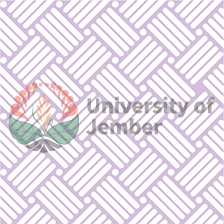
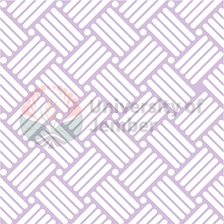
Update patern visibility

Changed region(s): [[0.0312, 0.3438, 0.9688, 0.6875]]

diff --git a/css/idj.css b/css/idj.css
@@ -73,7 +73,7 @@ body{
   var(--darkblue) 170px,
   rgba(255, 255, 255, 0.1) 170px,
   rgba(255, 255, 255, 0.1) 100%),
-  url("https://raw.githubusercontent.com/darkun7/ojs-theme/main/asset/pattern_line.png-unej") !important;
+  url("https://raw.githubusercontent.com/darkun7/ojs-theme/main/asset/pattern_line-unej.png") !important;
 
 }
 .pkp_structure_page{
